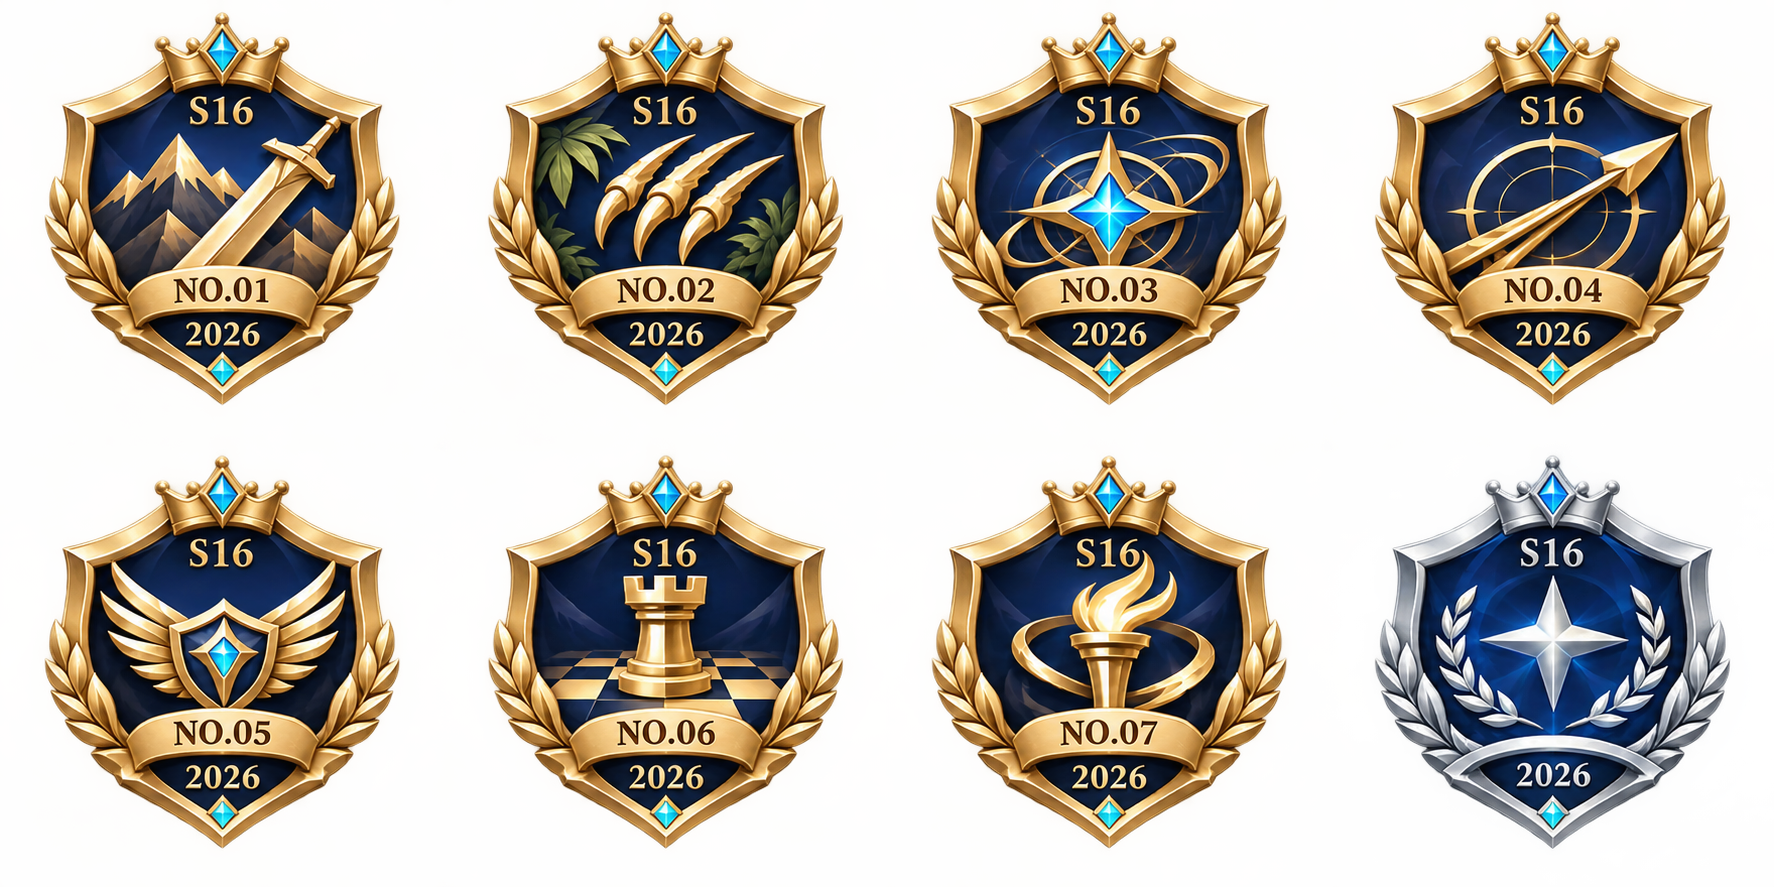
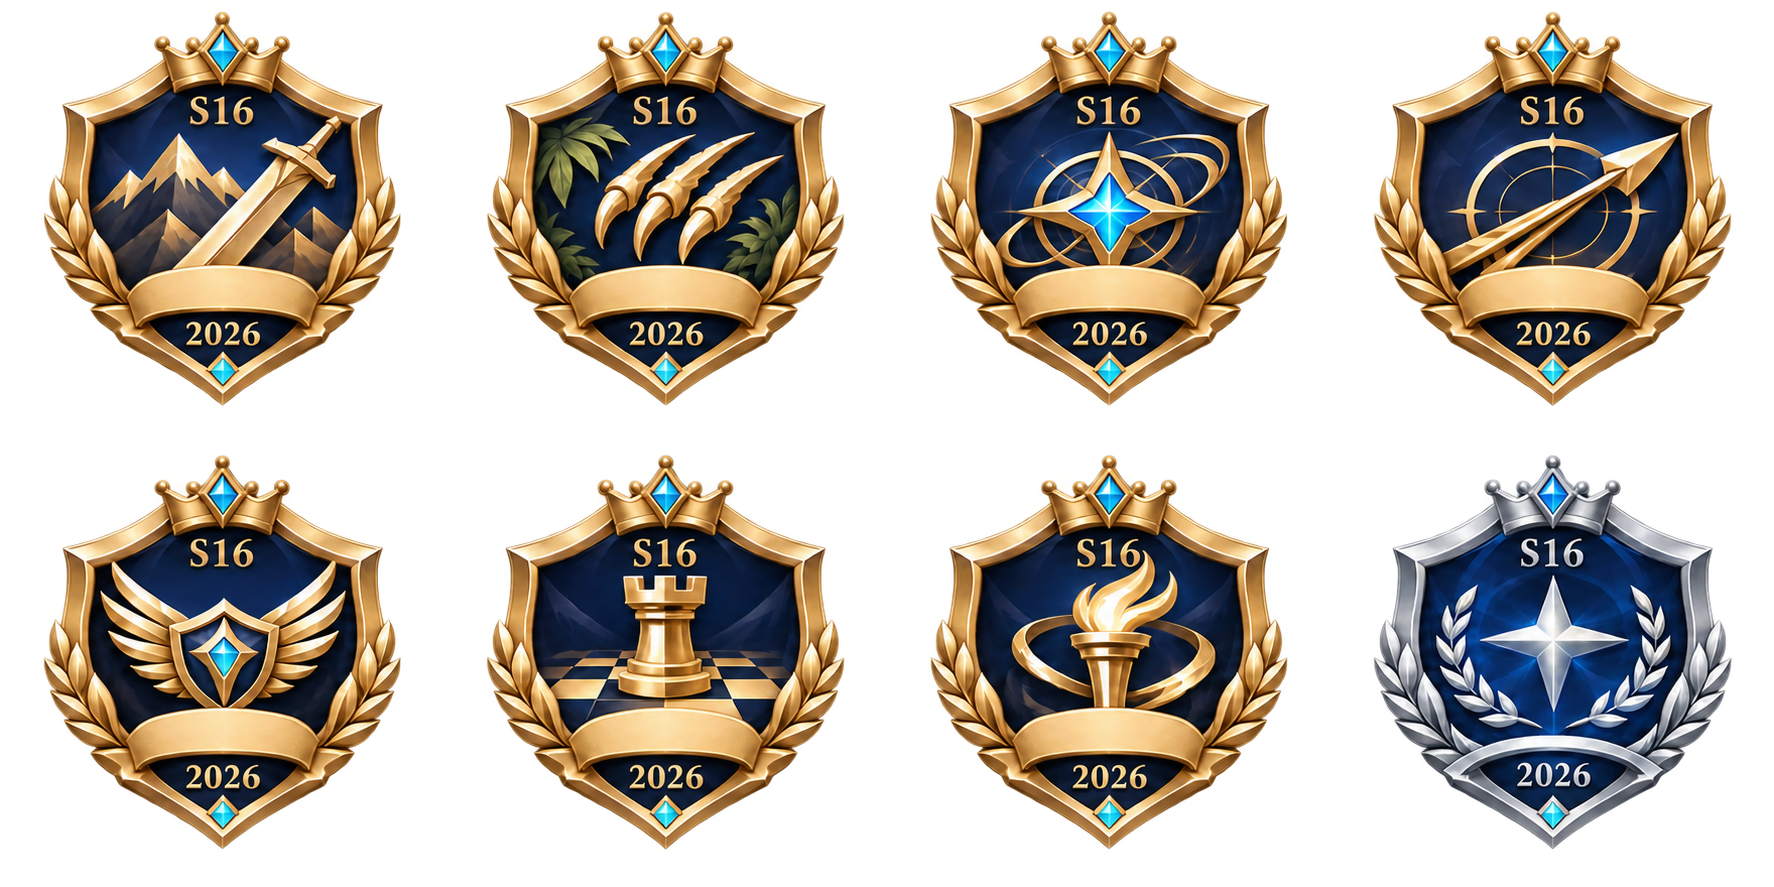
fix: remove rank numbers from championship honors

diff --git a/web/src/features/champion-event/honors.tsx b/web/src/features/champion-event/honors.tsx
@@ -75,7 +75,6 @@ export function ChampionHonors() {
                   <p className='text-muted-foreground text-xs'>
                     {t('S16 2026 · Owned permanently')}
                   </p>
-                  {badge < 8 && <Badge variant='outline'>NO.0{badge}</Badge>}
                   <div>
                     <Button
                       size='sm'

diff --git a/web/src/features/champion-event/index.tsx b/web/src/features/champion-event/index.tsx
@@ -114,7 +114,6 @@ export function Championship() {
                       <p className='text-muted-foreground text-sm'>
                         {winner?.name ?? t('Awaiting award list')}
                       </p>
-                      <Badge variant='outline'>NO.0{position}</Badge>
                     </article>
                   )
                 })}
